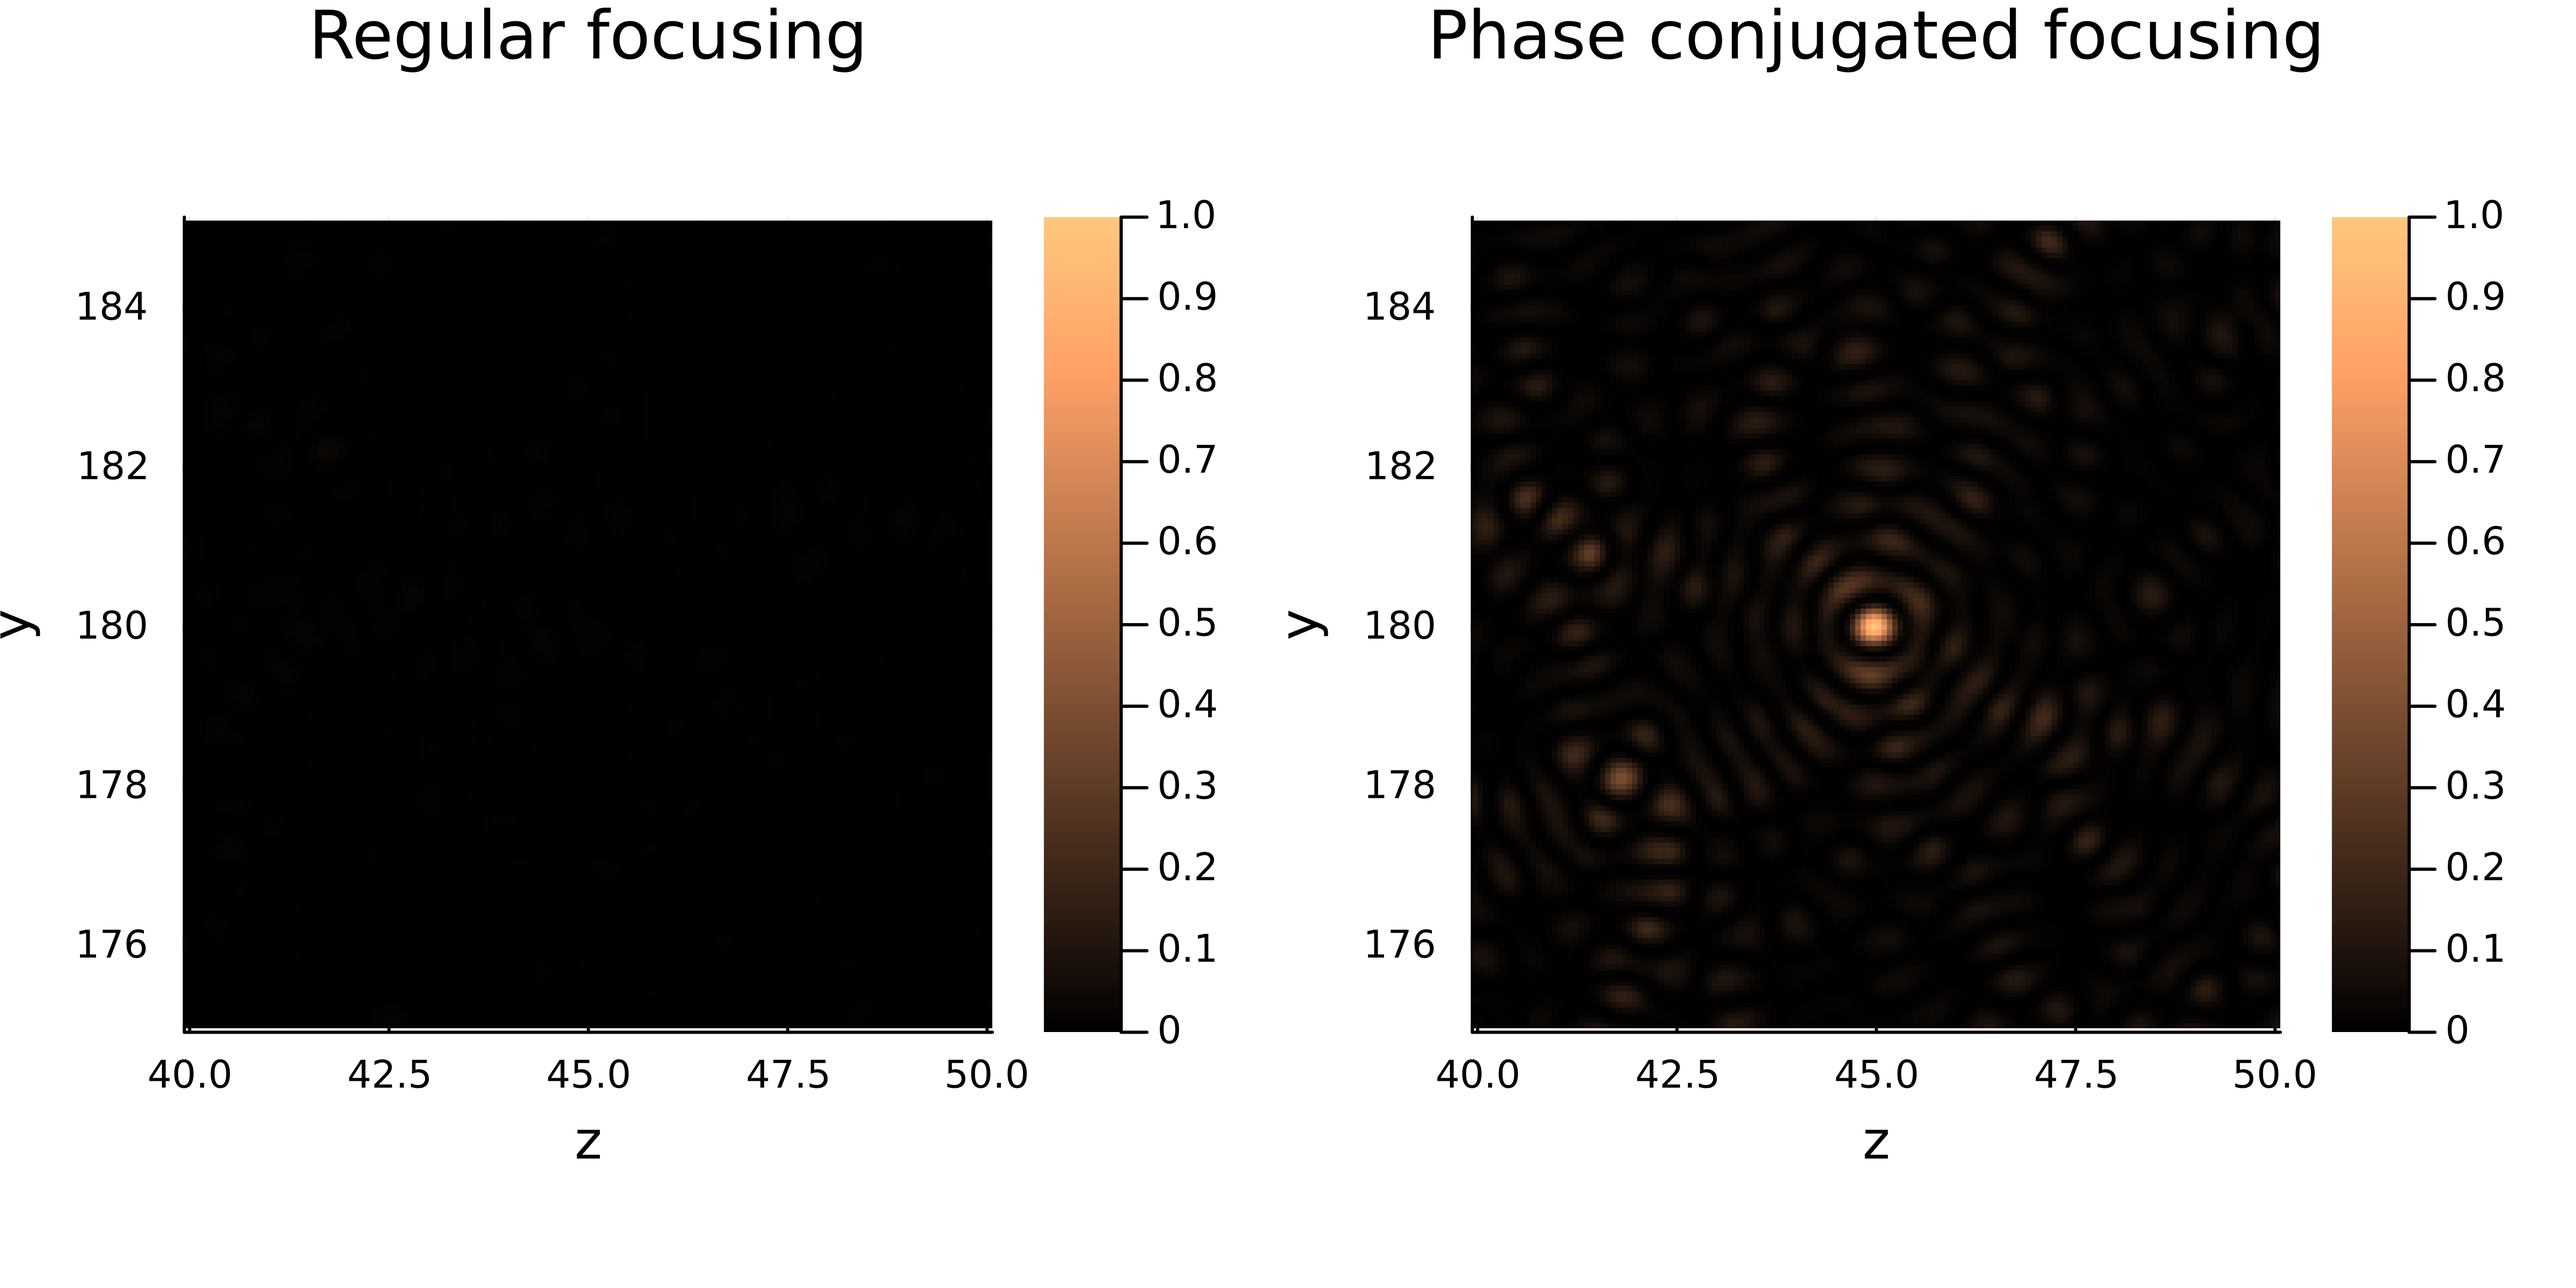
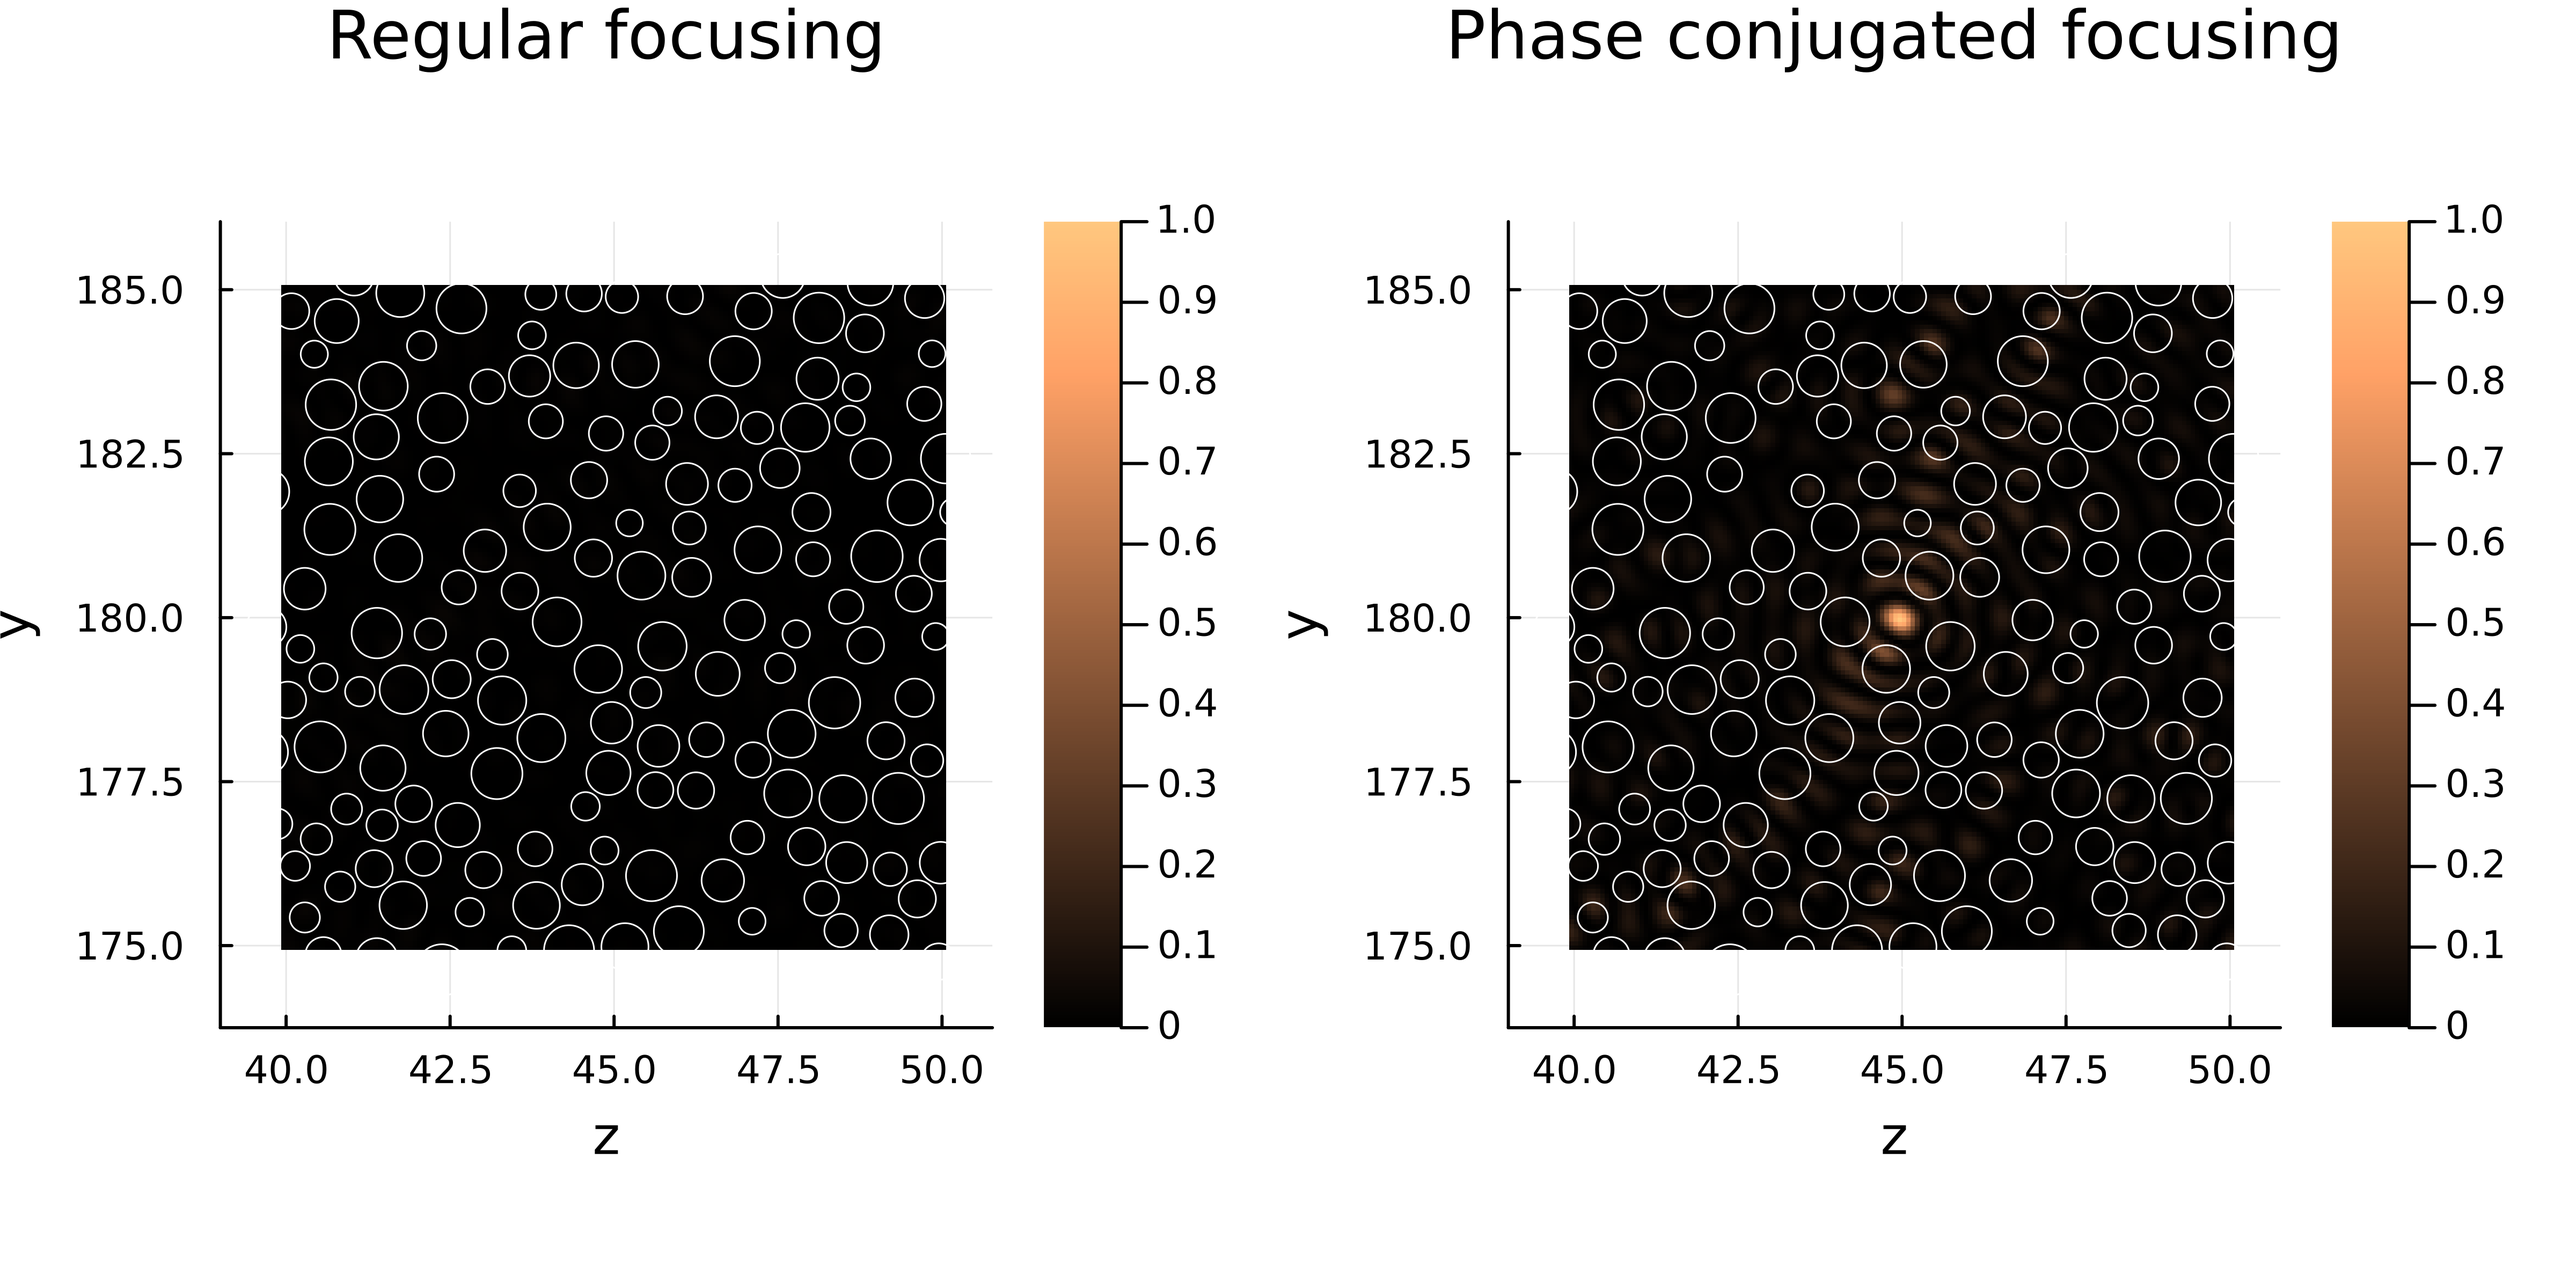
Update examples
Former-commit-id: ba27ad92179c8bb0bc3ce8843b7bc67583a97839

diff --git a/examples/2d_focusing_phase_conjugated_light_through_disorder/README.md b/examples/2d_focusing_phase_conjugated_light_through_disorder/README.md
@@ -47,7 +47,7 @@ build_epsilon_disorder_wo_subpixel_smoothing(W, L, r_min, r_max, min_sep,
 
 ```julia
 syst = Syst()
-pml_npixels = 10
+pml_npixels = 15
 syst.length_unit  = "lambda_0"
 syst.wavelength = 1
 syst.dx = dx
@@ -73,7 +73,7 @@ Ex_field, _ = mesti(syst, [Bx])
 ```
 ```text:Output
 ===System size===
-ny_Ex = 5400; nz_Ex = 1372 for Ex(y,z)
+ny_Ex = 5400; nz_Ex = 1382 for Ex(y,z)
 UPML on -z +z sides; ; yBC = periodic; zBC = PEC
 Building B,C... elapsed time:   0.184 secs
 Building A  ... elapsed time:   7.882 secs
@@ -140,7 +140,7 @@ Ex, _, _ = mesti2s(syst, input, opts)
 ```
 ```text:Output
 ===System size===
-ny_Ex = 5400; nz_Ex = 1350 => 1372 for Ex(y,z)
+ny_Ex = 5400; nz_Ex = 1350 => 1382 for Ex(y,z)
 [N_prop_low, N_prop_high] = [725, 725] per polarization
 yBC = periodic; zBC = [PML, PML]
 Building B,C... elapsed time:   0.957 secs
@@ -167,9 +167,10 @@ z_Ex = vcat(z_Ex[1] .- (opts.nz_low:-1:1)*dx, z_Ex, z_Ex[end] .+ (1:opts.nz_high
 
 # animate the field profile with the regular focusing input
 anim_regular_focusing = @animate for ii ∈ 0:(nframes_per_period-1)
-    plt1 = (heatmap(z_Ex,collect(y_Ex),real.(Ex[:,:,1]*exp(-1im*2*π*ii/nframes_per_period)),
-            xlabel = "z", ylabel = "y", c = :balance, clims=(-1, 1), aspect_ratio=:equal, dpi = 600))
-
+    plt1 = (heatmap(z_Ex, collect(y_Ex), real.(Ex[:,:,1]*exp(-1im*2*π*ii/nframes_per_period)),
+            xlabel = "z", ylabel = "y", c = :balance, clims=(-1, 1), aspect_ratio=:equal, dpi = 750))
+    scatter!(plt1, z0_list, y0_list, markersize=r0_list, alpha=0.1, color=:black, legend=false, dpi = 750)
+    
     display(plot(plt1))    
 end
 gif(anim_regular_focusing, "regular_focusing.gif", fps = 10)
@@ -179,9 +180,10 @@ gif(anim_regular_focusing, "regular_focusing.gif", fps = 10)
 ```julia
 # animate the field profile of the phase-conjugated focusing input
 anim_phase_congjuation = @animate for ii ∈ 0:(nframes_per_period-1)
-    plt2 = (heatmap(z_Ex,collect(y_Ex),real.(Ex[:,:,2]*exp(-1im*2*π*ii/nframes_per_period)),
-            xlabel = "z", ylabel = "y", c = :balance, clims=(-1, 1), aspect_ratio=:equal, dpi = 600))
-
+    plt2 = (heatmap(z_Ex, collect(y_Ex), real.(Ex[:,:,2]*exp(-1im*2*π*ii/nframes_per_period)),
+            xlabel = "z", ylabel = "y", c = :balance, clims=(-1, 1), aspect_ratio=:equal, dpi = 750))
+    scatter!(plt2, z0_list, y0_list,markersize=r0_list, alpha=0.1, color=:black, legend=false, dpi = 750)
+    
     display(plot(plt2))    
 end
 gif(anim_phase_congjuation_focusing, "phase_conjugated_focusing.gif", fps = 10)
@@ -193,8 +195,8 @@ gif(anim_phase_congjuation_focusing, "phase_conjugated_focusing.gif", fps = 10)
 # plot the intensity profiles and compare them
 
 # limit the plotting to the small region around the center of the focusing region between y ∈ [175, 185] and z ∈ [40, 50]
-y_Ex_ind_plot_range = searchsortedfirst(y_Ex, 175)-1:searchsortedfirst(y_Ex, 185)
-z_Ex_ind_plot_range = searchsortedfirst(z_Ex, 40)-1:searchsortedfirst(z_Ex, 50)
+y_Ex_ind_focusing_range = searchsortedfirst(y_Ex, 175)-1:searchsortedfirst(y_Ex, 185)
+z_Ex_ind_focusing_range  = searchsortedfirst(z_Ex, 40)-1:searchsortedfirst(z_Ex, 50)
 
 plt3 = heatmap(z_Ex[z_Ex_ind_focusing_range], y_Ex[y_Ex_ind_focusing_range], 
                abs.(Ex[y_Ex_ind_focusing_range, z_Ex_ind_focusing_range, 1]).^2,

diff --git a/examples/2d_open_channel_through_disorder/README.md b/examples/2d_open_channel_through_disorder/README.md
@@ -62,7 +62,7 @@ output.side = "high"
 
 # put PML along z-direction
 pml = get_optimal_PML(syst.wavelength/syst.dx)
-pml.npixels = 10
+pml.npixels = 15
 syst.zPML = [pml]
 
 # transmission matrix: input from the low side, output to the high side
@@ -70,7 +70,7 @@ t, channels, _ = mesti2s(syst, input, output)
 ```
 ```text:Output
 ===System size===
-ny_Ex = 5400; nz_Ex = 1350 => 1372 for Ex(y,z)
+ny_Ex = 5400; nz_Ex = 1350 => 1382 for Ex(y,z)
 [N_prop_low, N_prop_high] = [725, 725] per polarization
 yBC = periodic; zBC = [PML, PML]
 Building B,C... elapsed time:   3.562 secs
@@ -101,8 +101,8 @@ T_open = sigma_max[1].^2 # open channel
 println(" T_avg   = ", @sprintf("%.2f", T_avg), "\n T_PW    = ", @sprintf("%.2f", T_PW), "\n T_open  = ", @sprintf("%.2f", T_open))
 ```
 ```text:Output
- T_avg  = 0.22
- T_PW   = 0.25
+ T_avg  = 0.21
+ T_PW   = 0.22
  T_open = 1.00
 ```
 
@@ -126,7 +126,7 @@ Ex, _, _ = mesti2s(syst, input, opts)
 ```
 ```text:Output
 ===System size===
-ny_Ex = 5400; nz_Ex = 1350 => 1372 for Ex(y,z)
+ny_Ex = 5400; nz_Ex = 1350 => 1382 for Ex(y,z)
 [N_prop_low, N_prop_high] = [725, 725] per polarization
 yBC = periodic; zBC = [PML, PML]
 Building B,C... elapsed time:   0.552 secs
@@ -155,6 +155,7 @@ z_Ex = vcat(z_Ex[1] .- (opts.nz_low:-1:1)*dx, z_Ex, z_Ex[end] .+ (1:opts.nz_high
 anim_pw = @animate for ii ∈ 0:(nframes_per_period-1)
     plt1 = (heatmap(z_Ex,collect(y_Ex),real.(Ex[:,:,1]*exp(-1im*2*π*ii/nframes_per_period)),
             xlabel = "z", ylabel = "y", c = :balance, clims=(-1, 1), aspect_ratio=:equal, dpi = 550))
+    scatter!(plt1, z0_list, y0_list,markersize=r0_list, alpha=0.1, color=:black, legend=false, dpi = 550)
 
     display(plot(plt1))    
 end
@@ -168,6 +169,7 @@ gif(anim_pw, "disorder_PW_input.gif", fps = 10)
 anim_open_ch = @animate for ii ∈ 0:(nframes_per_period-1)
     plt2 = (heatmap(z_Ex,collect(y_Ex),real.(Ex[:,:,2]*exp(-1im*2*π*ii/nframes_per_period)),
             xlabel = "z", ylabel = "y", c = :balance, clims=(-1, 1), aspect_ratio=:equal, dpi = 550))
+    scatter!(plt2, z0_list, y0_list,markersize=r0_list, alpha=0.1, color=:black, legend=false, dpi = 550)
 
     display(plot(plt2))    
 end
